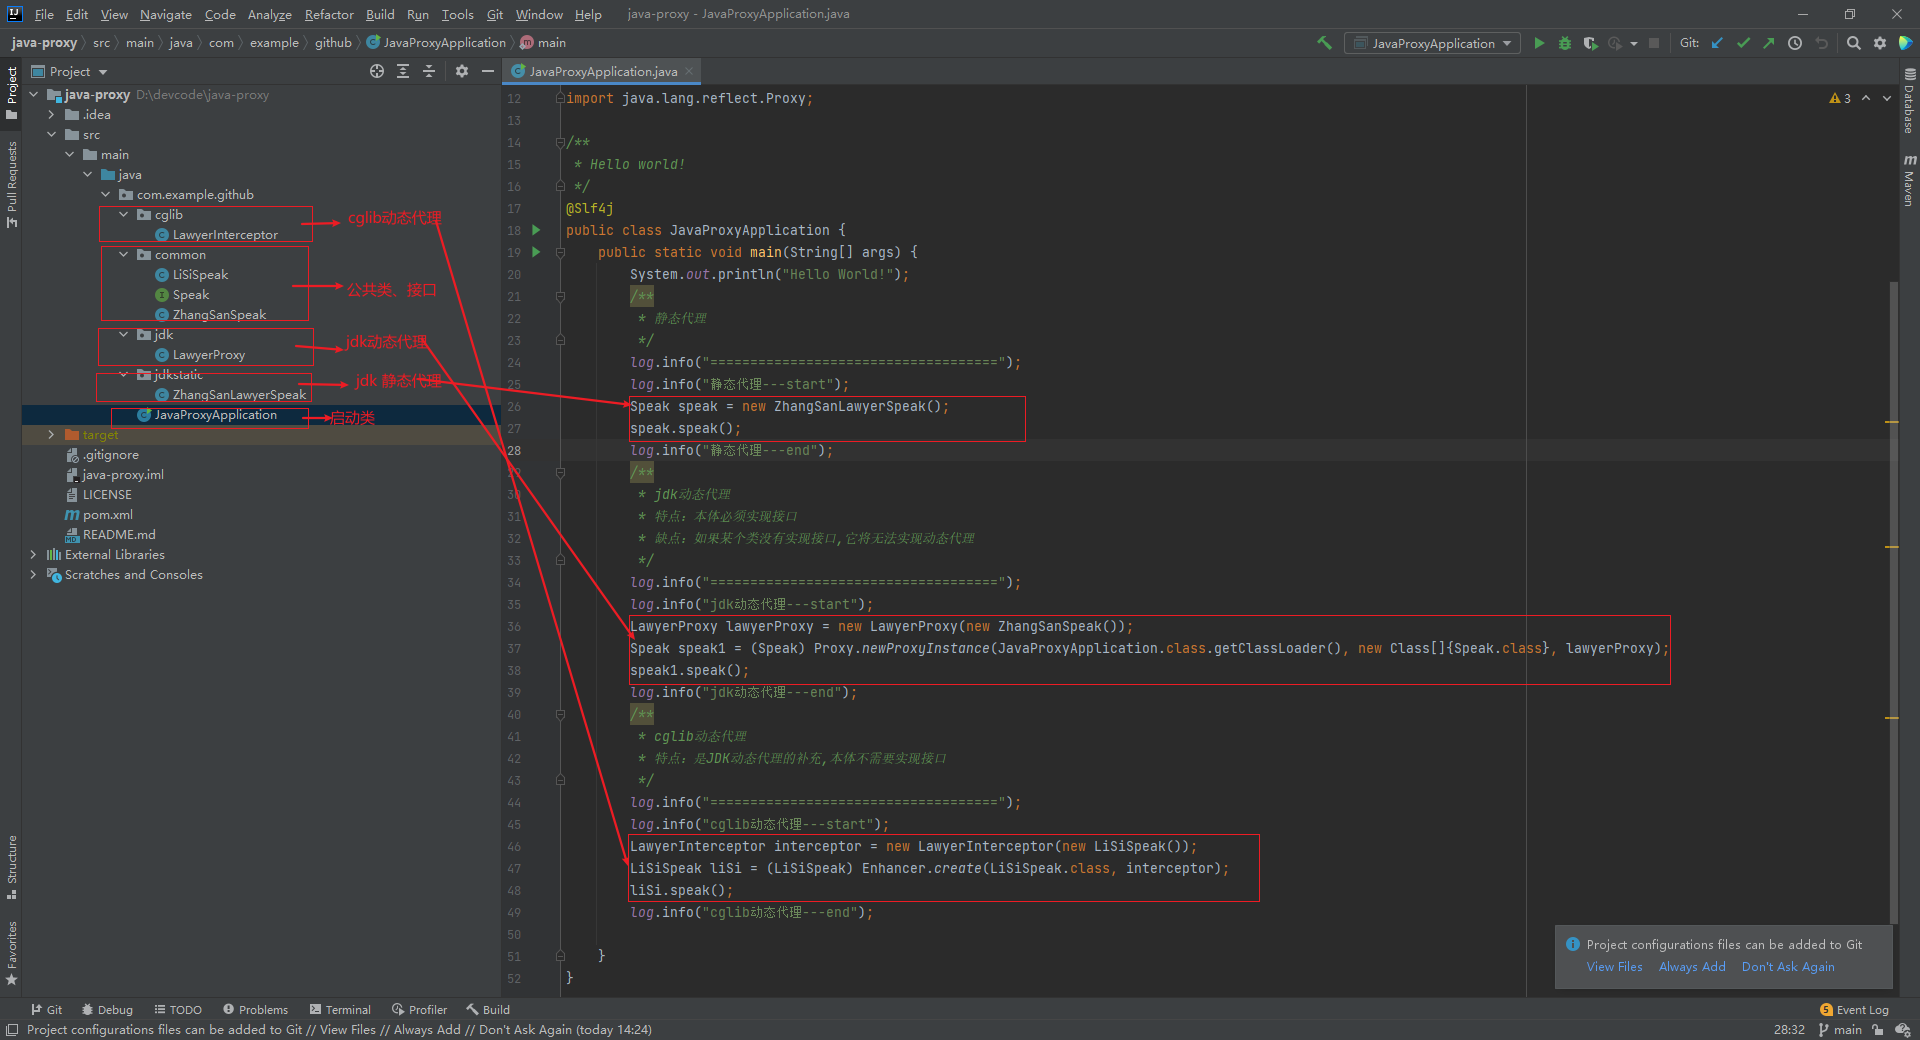
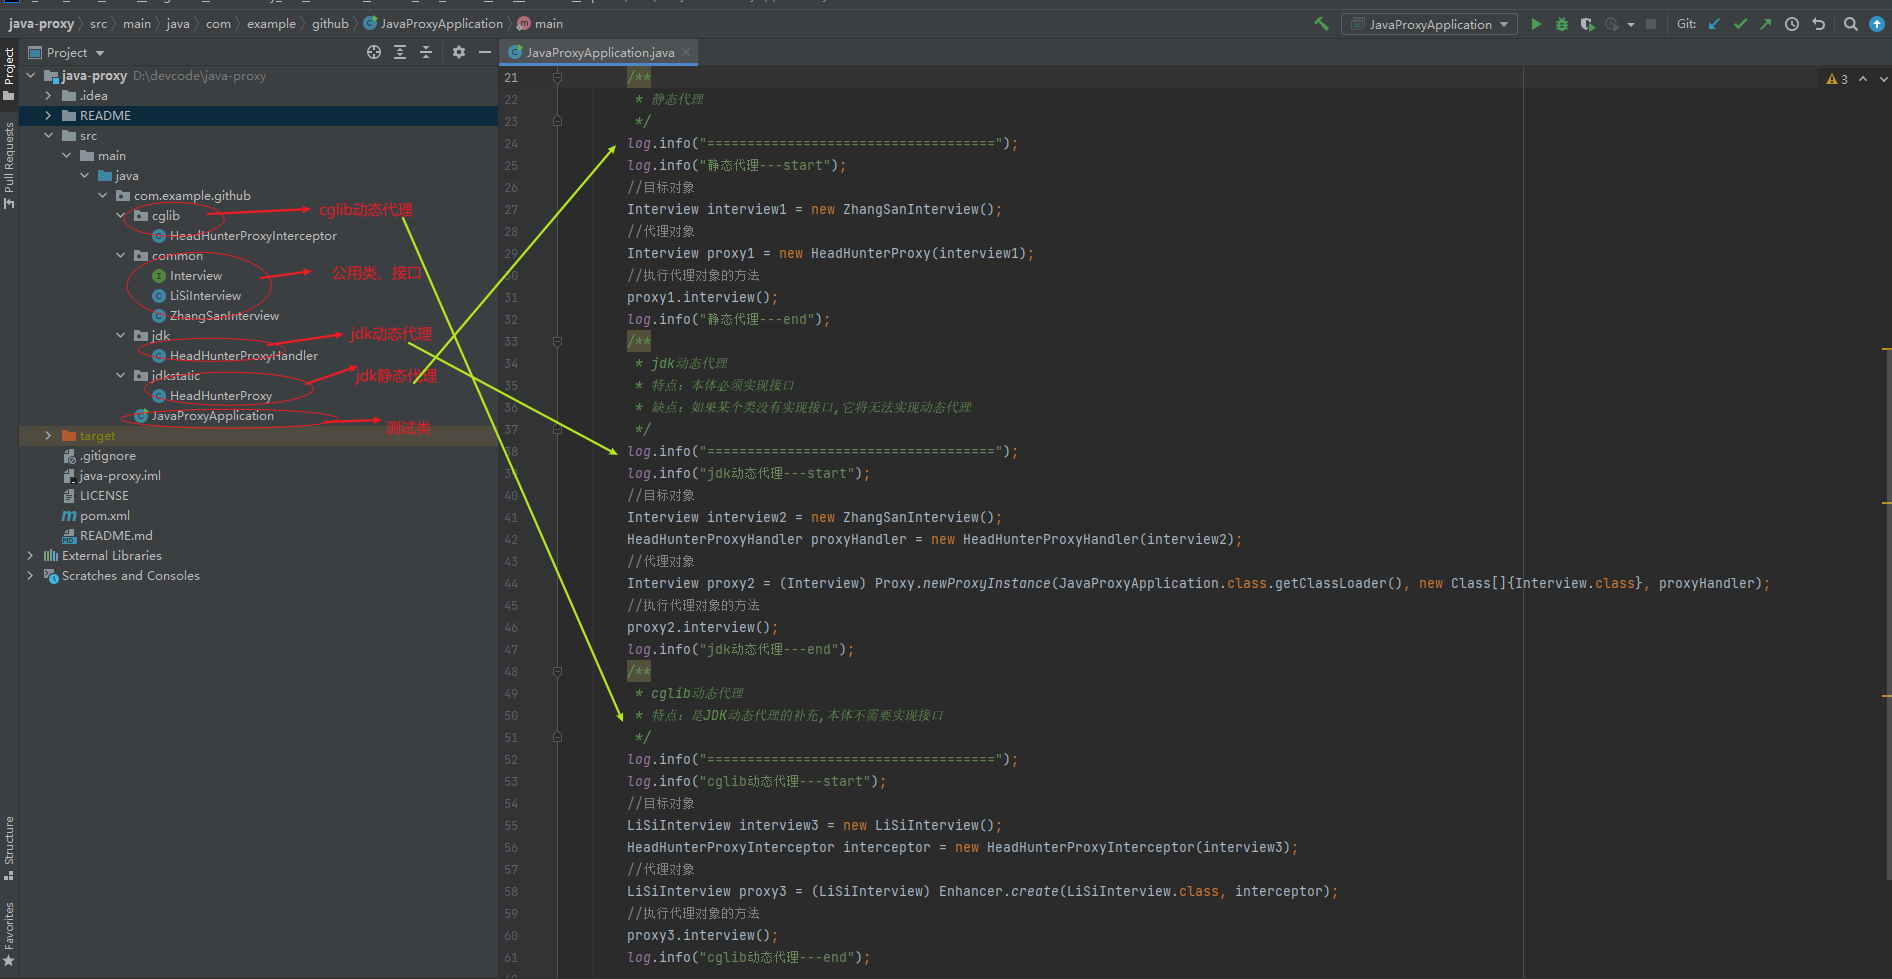
add pic

diff --git a/README.md b/README.md
@@ -6,16 +6,15 @@
 ## 三种代理模式
 
 ### 代理模式
-定义：提供了对目标对象另外的访问方式  
+定义：提供了对目标对象另外的访问方式,在不改变源码的情况下,实现对目标对象功能的扩展
 
-好处：可以在目标对象实现的基础上,增强额外的功能操作,扩展目标对象的功能  
+使用代理模式的好处：可以在目标对象实现的基础上,增强额外的功能操作,扩展目标对象的功能  
 
 关键：代理对象与目标对象。代理对象是对目标对象的扩展,代理对象会调用目标对象
 
 ### 静态代理
 ####实现
-代理对象与目标对象要实现相同的接口 或者继承相同的父类。
-
+代理对象与目标对象要实现相同的接口 或者继承相同的父类。  
 代理对象要通过调用相同的方法,来调用目标对象的方法。
 
 #### 总结
@@ -25,40 +24,28 @@
 
 
 ### 动态代理(基于jdk)
-####实现
-代理对象与目标对象要实现相同的接口 或者继承相同的父类。
-
-代理对象要通过调用相同的方法,来调用目标对象的方法。
-
-#### 总结
-好处：可以做到不修改目标对象功能的情况下,对目标功能扩展。
-
-不足：会有很多代理类,接口增加方法时,目标对象与代理对象都要维护。
-
-#### 如何解决静态代理的不足？
-使用动态代理。
-
-
-### 动态代理(基于cglib)
 动态代理的特点：代理对象不需要实现接口
-#### 实现
-jdk动态代理API：Proxy.newProxyInstance()
+####实现
+jdk动态代理API：Proxy的静态方法newProxyInstance()
+
+
 #### 总结
 代理对象不需要实现接口,但目标对象一定要实现接口,否则不能使用jdk动态代理
 
+### 动态代理(基于cglib)
 ####实现
-需要引入cglib依赖
+需要引入cglib依赖  
 代理对象实现MethodInterceptor接口,在intercept方法中写逻辑
-
-
-代理对象要通过调用相同的方法,来调用目标对象的方法。
 
 #### 总结
 目标对象不需要实现接口
 
 ### 三种代理模式选型
-如果加入容器的目标对象有实现接口,使用jdk动态代理
-如果........目标对象没有实现接口,使用cglib动态代理
+
+在spring AOP编程中
+
+如果加入容器的目标对象有实现接口,使用jdk动态代理  
+如果加入容器的目标对象没有实现接口,使用cglib动态代理
 
 ##  使用示例
 > 由于java项目一般使用spring boot,我们在maven项目中演示。
@@ -105,7 +92,11 @@ https://github.com/mqcode/java-proxy.git
 /**
  * 接口
  */
-public interface Speak {
+public interface Interview {
+
+    /**
+     * 面试接口
+     */
     void interview();
 }
 ```
@@ -115,10 +106,13 @@ public interface Speak {
  * 被代理类,张三
  */
 @Slf4j
-public class ZhangSanSpeak implements Speak{
+public class ZhangSanInterview implements Interview {
+    /**
+     * 张三面试,未实现接口
+     */
     @Override
     public void interview() {
-        log.info("我老婆打我！");
+        log.info("我是张三,我来面试！");
     }
 }
 ```
@@ -128,9 +122,12 @@ public class ZhangSanSpeak implements Speak{
  * 被代理类,李四
  */
 @Slf4j
-public class LiSiSpeak {
+public class LiSiInterview {
+    /**
+     * 李四面试,未实现接口
+     */
     public void interview(){
-        log.info("我老婆打我！-我没有实现接口哦！");
+        log.info("我是李四,我来面试！-我没有实现接口哦！");
     }
 }
 ```
@@ -141,15 +138,19 @@ public class LiSiSpeak {
  * 代理类
  */
 @Slf4j
-public class ZhangSanLawyerSpeak implements Speak {
+public class HeadHunterProxy implements Interview {
 
-    private ZhangSanSpeak zhangSanSpeak = new ZhangSanSpeak();
+    private Interview interview;
+
+    public HeadHunterProxy(Interview speak) {
+        this.interview = speak;
+    }
 
     @Override
     public void interview() {
-        log.info("引用法律条文！");
-        zhangSanSpeak.interview();
-        log.info("打人是不对的！");
+        log.info("你是谁？来干什么？");
+        interview.interview();
+        log.info("那我们开始吧！");
     }
 }
 ```
@@ -159,24 +160,25 @@ public class ZhangSanLawyerSpeak implements Speak {
  * 代理类
  */
 @Slf4j
-public class LawyerProxy implements InvocationHandler {
+public class HeadHunterProxyHandler implements InvocationHandler {
     private Object object;
 
-    public LawyerProxy(Object object) {
+    public HeadHunterProxyHandler(Object object) {
         this.object = object;
     }
 
     @Override
     public Object invoke(Object proxy, Method method, Object[] args) throws Throwable {
         if (method.getName().equals("interview")) {
-            log.info("引用法律条文！");
+            log.info("你是谁？来干什么？");
             //反射
             method.invoke(object);
-            log.info("打人是不对的！");
+            log.info("那我们开始吧！");
         }
         return null;
     }
 }
+
 ```
 
 ### 基于cglib的动态代理
@@ -186,19 +188,19 @@ public class LawyerProxy implements InvocationHandler {
  * 代理类
  */
 @Slf4j
-public class LawyerInterceptor implements MethodInterceptor {
+public class HeadHunterProxyInterceptor implements MethodInterceptor {
     private Object object;
 
-    public LawyerInterceptor(Object object) {
+    public HeadHunterProxyInterceptor(Object object) {
         this.object = object;
     }
     @Override
     public Object intercept(Object o, Method method, Object[] objects, MethodProxy methodProxy) throws Throwable {
         if (method.getName().equals("interview")) {
-            log.info("引用法律条文！");
+            log.info("你是谁？来干什么？");
             //反射
             method.invoke(object);
-            log.info("打人是不对的！");
+            log.info("那我们开始吧！");
         }
         return null;
     }
@@ -210,15 +212,12 @@ public class LawyerInterceptor implements MethodInterceptor {
 ```java
 package com.example.github;
 
-import com.example.github.cglib.LawyerInterceptor;
+import com.example.github.cglib.HeadHunterProxyInterceptor;
 import com.example.github.common.Interview;
-import com.example.github.common.LiSiSpeak;
-import com.example.github.common.Interview;
+import com.example.github.common.LiSiInterview;
 import com.example.github.common.ZhangSanInterview;
-import com.example.github.common.ZhangSanSpeak;
-import com.example.github.jdk.LawyerProxy;
-import com.example.github.jdkstatic.ZhangSanLawyerInterview;
-import com.example.github.jdkstatic.ZhangSanLawyerSpeak;
+import com.example.github.jdk.HeadHunterProxyHandler;
+import com.example.github.jdkstatic.HeadHunterProxy;
 import lombok.extern.slf4j.Slf4j;
 import net.sf.cglib.proxy.Enhancer;
 
@@ -236,8 +235,12 @@ public class JavaProxyApplication {
          */
         log.info("====================================");
         log.info("静态代理---start");
-        Interview interview = new ZhangSanLawyerInterview();
-        interview.interview();
+        //目标对象
+        Interview interview1 = new ZhangSanInterview();
+        //代理对象
+        Interview proxy1 = new HeadHunterProxy(interview1);
+        //执行代理对象的方法
+        proxy1.interview();
         log.info("静态代理---end");
         /**
          * jdk动态代理
@@ -246,9 +249,13 @@ public class JavaProxyApplication {
          */
         log.info("====================================");
         log.info("jdk动态代理---start");
-        LawyerProxy lawyerProxy = new LawyerProxy(new ZhangSanInterview());
-        Interview interview1 = (Interview) Proxy.newProxyInstance(JavaProxyApplication.class.getClassLoader(), new Class[]{Interview.class}, lawyerProxy);
-        interview1.interview();
+        //目标对象
+        Interview interview2 = new ZhangSanInterview();
+        HeadHunterProxyHandler proxyHandler = new HeadHunterProxyHandler(interview2);
+        //代理对象
+        Interview proxy2 = (Interview) Proxy.newProxyInstance(JavaProxyApplication.class.getClassLoader(), new Class[]{Interview.class}, proxyHandler);
+        //执行代理对象的方法
+        proxy2.interview();
         log.info("jdk动态代理---end");
         /**
          * cglib动态代理
@@ -256,11 +263,22 @@ public class JavaProxyApplication {
          */
         log.info("====================================");
         log.info("cglib动态代理---start");
-        LawyerInterceptor interceptor = new LawyerInterceptor(new LiSiSpeak());
-        LiSiSpeak liSi = (LiSiSpeak) Enhancer.create(LiSiSpeak.class, interceptor);
-        liSi.interview();
+        //目标对象
+        LiSiInterview interview3 = new LiSiInterview();
+        HeadHunterProxyInterceptor interceptor = new HeadHunterProxyInterceptor(interview3);
+        //代理对象
+        LiSiInterview proxy3 = (LiSiInterview) Enhancer.create(LiSiInterview.class, interceptor);
+        //执行代理对象的方法
+        proxy3.interview();
         log.info("cglib动态代理---end");
 
     }
 }
+```
+
+## 关于作者
+```
+职业:软件工程师
+微信:wlbinfo
+开始制作时间:2021-12-12 15:00
 ```
